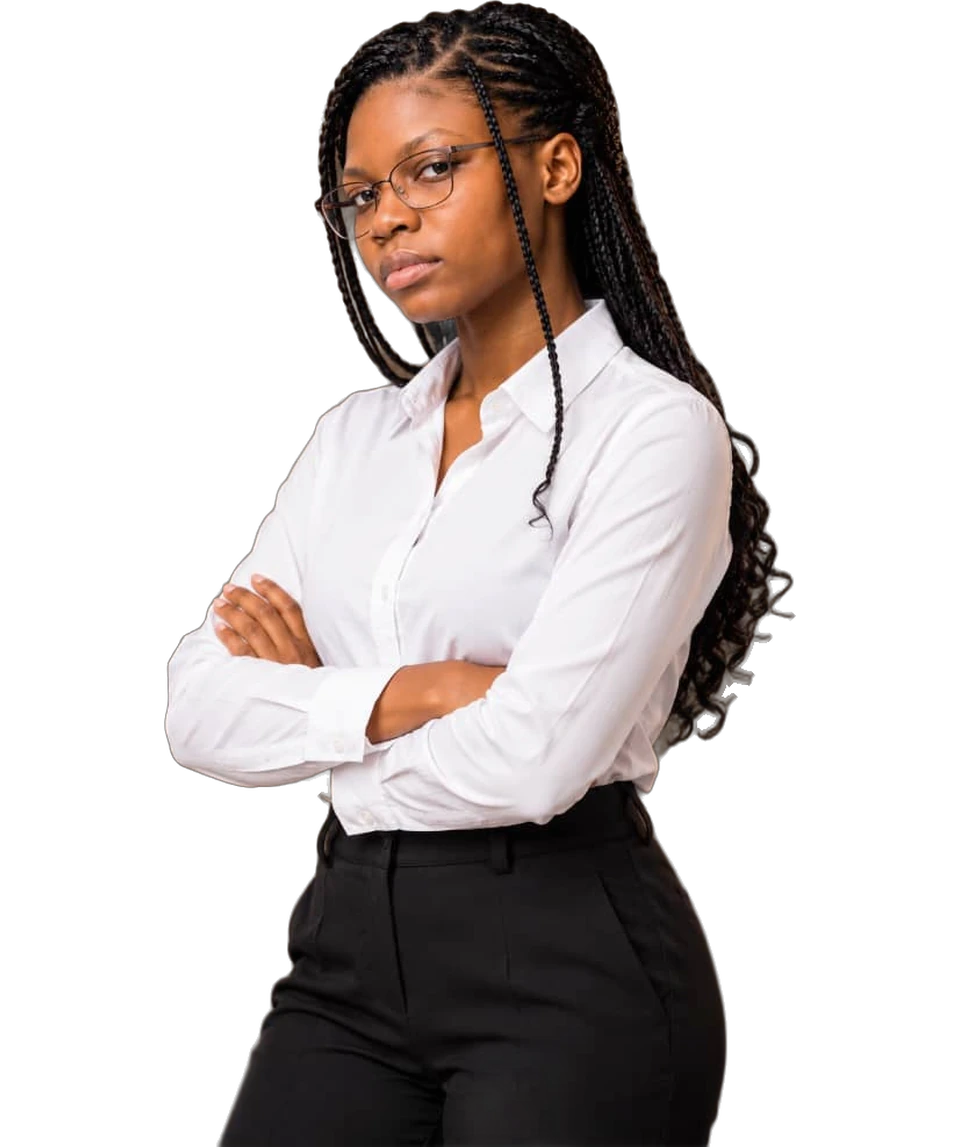
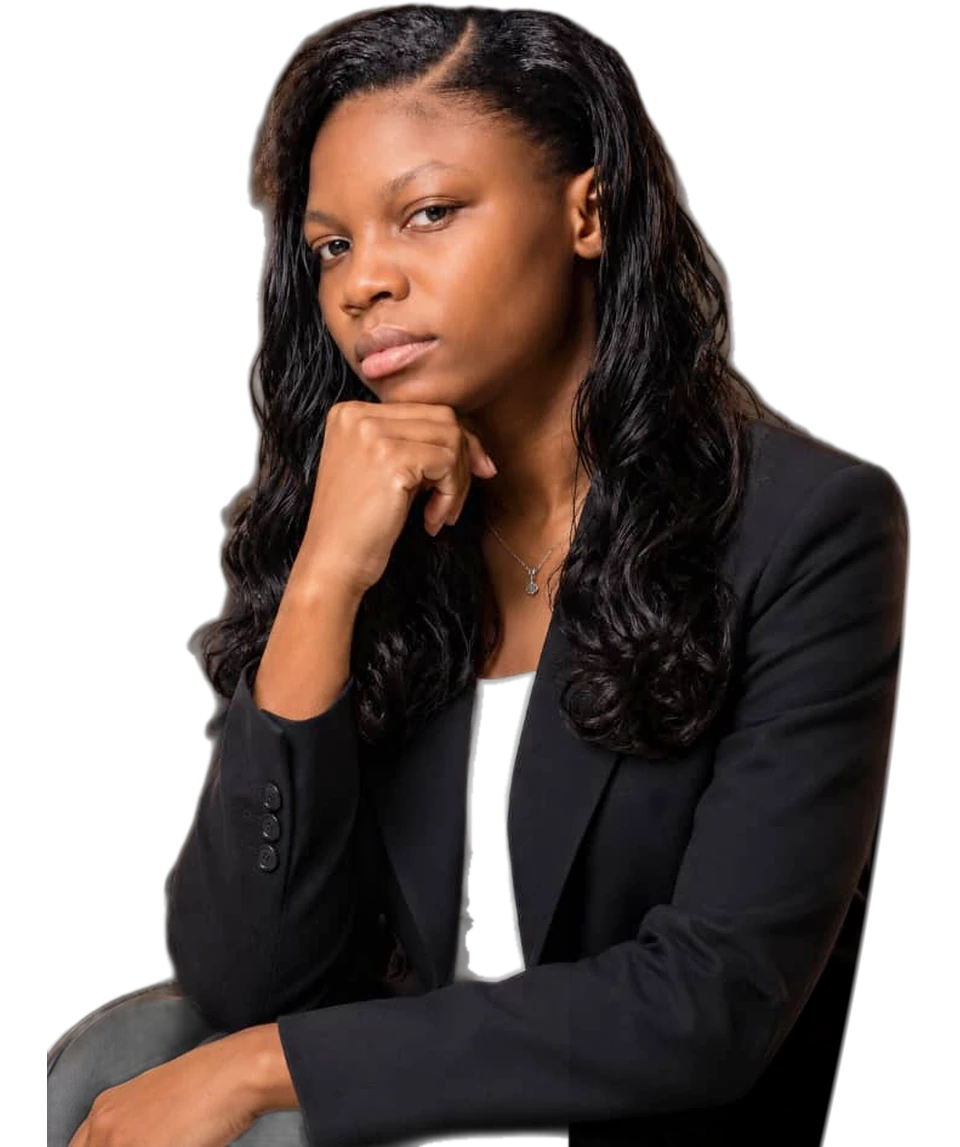
Section équipe en accordéon, photos de l'équipe, bandeau rejoindre

diff --git a/src/components/Team.jsx b/src/components/Team.jsx
@@ -1,76 +1,149 @@
-import { useState } from "react";
+import { useEffect, useRef, useState } from "react";
 import { team } from "../data/team.js";
-import { Arrow, Reveal, Spark } from "./ui.jsx";
+import { Arrow, Reveal } from "./ui.jsx";
 
 const initials = (name) => name.split(/\s+/).filter(Boolean).slice(0, 2).map((w) => w[0]).join("").toUpperCase();
-// Grille en quinconce : une colonne sur deux est décalée vers le bas (grand écran).
-const drop = (i) => (i % 2 ? "lg:mt-12" : "");
+const ease = "ease-[cubic-bezier(.65,0,.15,1)]";
 
-// La tuile d'invitation occupe les colonnes restantes de la dernière ligne (grand écran).
-const fill = { 1: "lg:col-span-1", 2: "lg:col-span-2", 3: "lg:col-span-3", 4: "lg:col-span-4" };
-
-function Member({ m, i }) {
-  const [missing, setMissing] = useState(false);
-  const Tag = m.link ? "a" : "div";
-  const linkProps = m.link ? { href: m.link, target: "_blank", rel: "noreferrer" } : {};
-  return (
-    <Tag {...linkProps} className="theme-dark group relative block aspect-[4/5] overflow-hidden rounded-[1.75rem] bg-ink text-bone ring-1 ring-bone/10 transition-[transform,box-shadow] duration-500 ease-[cubic-bezier(.2,.7,.2,1)] hover:-translate-y-2 hover:shadow-[0_30px_60px_-25px_rgb(var(--c-accent)/.55)]">
-      {missing ? (
-        <span className="absolute inset-0 flex items-start justify-center pt-[22%] sm:items-center sm:pt-0 bg-[repeating-linear-gradient(135deg,rgb(var(--c-bone)/.05)_0_2px,transparent_2px_16px)]">
-          <span className="font-display text-[clamp(3rem,7vw,5.5rem)] font-bold tracking-[-0.04em] text-bone/25 transition-colors duration-500 group-hover:text-accent">{initials(m.name)}</span>
-        </span>
-      ) : (
-        <img
-          src={m.photo} alt={`${m.name}, ${m.role}`} loading="lazy" onError={() => setMissing(true)}
-          className="absolute inset-0 h-full w-full object-cover grayscale transition-all duration-[900ms] ease-[cubic-bezier(.2,.7,.2,1)] group-hover:scale-[1.06] group-hover:grayscale-0"
-        />
-      )}
-      <span className="pointer-events-none absolute inset-0 bg-gradient-to-t from-ink/90 via-ink/15 to-transparent" />
-      <span className="absolute left-4 top-4 rounded-full bg-ink/70 px-3 py-1 font-display text-xs text-bone backdrop-blur transition-colors duration-500 group-hover:bg-accent group-hover:text-ink">0{i + 1}</span>
-      {m.link && (
-        <span className="absolute right-4 top-4 grid h-9 w-9 scale-0 place-items-center rounded-full bg-accent text-ink transition-transform duration-500 group-hover:scale-100"><Arrow className="h-4 w-4" /></span>
-      )}
-      <span className="absolute inset-x-4 bottom-4 block sm:inset-x-5 sm:bottom-5">
-        <span className="block font-display text-lg font-bold leading-tight tracking-tight sm:text-2xl">{m.name}</span>
-        <span className="mt-1.5 block text-sm text-mist transition-colors duration-500 group-hover:text-accent sm:text-base">{m.role}</span>
-        <span className="mt-3 block h-0.5 w-8 bg-accent transition-all duration-500 group-hover:w-full" />
-      </span>
-    </Tag>
-  );
-}
-
+/* Galerie en panneaux accordéon.
+   - Un panneau est ouvert à la fois : fond vert, photo en couleur, nom en grand.
+   - Les autres sont des bandes fines en noir et blanc, avec le nom écrit à la verticale.
+   - Survol, clic ou clavier ouvrent un panneau ; sans interaction, la galerie
+     passe toute seule d'une personne à l'autre. */
 export default function Team() {
+  const [active, setActive] = useState(0);
+  const [paused, setPaused] = useState(false);
+  const [missing, setMissing] = useState({});
+  const listRef = useRef(null);
+
+  useEffect(() => {
+    if (paused || window.matchMedia("(prefers-reduced-motion: reduce)").matches) return;
+    let visible = false;
+    const io = new IntersectionObserver(([e]) => { visible = e.isIntersecting; }, { threshold: 0.3 });
+    io.observe(listRef.current);
+    const t = setInterval(() => { if (visible) setActive((a) => (a + 1) % team.length); }, 3800);
+    return () => { clearInterval(t); io.disconnect(); };
+  }, [paused]);
+
+  const open = (i) => { setActive(i); setPaused(true); };
+
   return (
-    <section id="team" className="shell pb-24 sm:pb-36">
-      <div className="grid items-end gap-8 lg:grid-cols-12">
+    <section id="team" className="pb-24 sm:pb-36">
+      <div className="shell grid items-end gap-8 lg:grid-cols-12">
         <Reveal className="lg:col-span-8">
           <p className="eyebrow text-accent">( Équipe — {String(team.length).padStart(2, "0")} talents )</p>
           <h2 className="mt-8 font-display text-title font-bold">Celles et ceux avec<br />qui je <span className="mark">travaille</span></h2>
         </Reveal>
         <Reveal delay={120} className="font-display text-xl leading-snug text-mist sm:text-2xl lg:col-span-4 lg:pb-3">
-          Les meilleurs projets se construisent à plusieurs. Voici les personnes avec qui je collabore.
+          Les meilleurs projets se construisent à plusieurs. Passez sur un visage pour faire connaissance.
         </Reveal>
       </div>
 
-      <ul className="mt-14 grid grid-cols-2 gap-4 sm:mt-20 sm:gap-5 lg:grid-cols-4">
-        {team.map((m, i) => (
-          <Reveal as="li" key={i} delay={(i % 4) * 90} className={drop(i)}>
-            <Member m={m} i={i} />
-          </Reveal>
-        ))}
+      <Reveal className="shell mt-14 sm:mt-20">
+        <ul ref={listRef} onMouseLeave={() => setPaused(false)} className="flex flex-col gap-3 lg:h-[36rem] lg:flex-row">
+          {team.map((m, i) => {
+            const on = i === active;
+            return (
+              <li
+                key={i}
+                className={`relative overflow-hidden rounded-[1.75rem] ring-1 transition-[flex-grow,height,background-color,box-shadow] duration-700 ${ease}
+                  ${on ? "h-[30rem] bg-accent ring-accent shadow-[0_40px_80px_-35px_rgb(var(--c-accent)/.7)] lg:grow-[5]" : "h-24 bg-bone/[0.05] ring-bone/10 hover:bg-bone/[0.09] lg:grow"}
+                  sm:h-auto ${on ? "sm:h-[32rem]" : "sm:h-28"} lg:h-auto lg:basis-0`}
+              >
+                <button
+                  type="button" aria-expanded={on} aria-label={`${m.name}, ${m.role}`}
+                  onMouseEnter={() => open(i)} onFocus={() => open(i)} onClick={() => open(i)}
+                  className="absolute inset-0 z-20 cursor-pointer focus-visible:outline-none"
+                />
 
-        {/* Tuile d'invitation */}
-        <Reveal as="li" delay={(team.length % 4) * 90} className={`${team.length % 2 ? "col-span-1" : "col-span-2"} ${fill[4 - (team.length % 4)]} ${drop(team.length)}`}>
-          <a href="#contact" className="group relative flex h-full min-h-[14rem] flex-col justify-between overflow-hidden rounded-[1.75rem] bg-accent p-5 text-ink transition-transform duration-500 hover:-translate-y-2 sm:p-9">
-            <Spark className="absolute -right-8 -top-8 h-36 w-36 animate-spin-slow text-ink/10" />
-            <span className="eyebrow relative">Et vous ?</span>
-            <span className="relative flex items-end justify-between gap-4">
-              <span className="font-display text-2xl font-bold leading-[1.05] tracking-tight sm:text-5xl">Rejoignez<br />l’aventure.</span>
-              <span className="grid h-14 w-14 shrink-0 place-items-center rounded-full bg-ink text-accent transition-transform duration-500 group-hover:rotate-45 max-sm:hidden"><Arrow /></span>
-            </span>
-          </a>
-        </Reveal>
-      </ul>
+                {/* Photo détourée : centrée quand le panneau est fermé, calée à droite quand il est ouvert */}
+                <div
+                  className={`pointer-events-none absolute bottom-0 top-0 w-[var(--pw)] transition-[left,filter] duration-700 [--pw:17rem] sm:[--pw:22rem] lg:[--pw:24rem] ${ease} ${on ? "grayscale-0" : "grayscale brightness-[.7]"}`}
+                  style={{ left: on ? "calc(100% - min(100%, var(--pw)))" : "calc(50% - var(--pw) / 2)" }}
+                >
+                  {missing[i] ? (
+                    <span className={`absolute inset-0 grid place-items-center font-display text-6xl font-bold ${on ? "text-ink/40" : "text-bone/25"}`}>{initials(m.name)}</span>
+                  ) : (
+                    <img
+                      src={m.photo} alt="" loading="lazy" onError={() => setMissing((s) => ({ ...s, [i]: true }))}
+                      className={`absolute inset-x-0 bottom-0 h-[94%] w-full origin-bottom object-contain object-bottom transition-transform duration-700 ${ease} ${on ? "scale-100 max-lg:h-[62%]" : "scale-[1.35] lg:scale-[1.15]"}`}
+                    />
+                  )}
+                </div>
+
+                {/* Bande fermée : numéro + nom */}
+                <div className={`pointer-events-none absolute inset-0 z-10 flex items-center justify-between px-6 transition-opacity duration-300 lg:flex-col lg:items-start lg:justify-between lg:px-0 lg:py-6 ${on ? "opacity-0" : "opacity-100 delay-300"}`}>
+                  <span className="font-display text-sm text-accent lg:mx-auto">0{i + 1}</span>
+                  <span className="max-w-[60%] truncate text-right font-display text-lg font-bold lg:mx-auto lg:max-w-none lg:rotate-180 lg:text-xl lg:[writing-mode:vertical-rl]">{m.name}</span>
+                </div>
+
+                {/* Panneau ouvert : fiche */}
+                <div className={`pointer-events-none absolute inset-y-0 left-0 z-10 flex w-full flex-col justify-start gap-4 p-6 text-ink sm:p-9 lg:w-[55%] lg:justify-between lg:gap-0 ${on ? "" : "invisible"}`}>
+                  <span className={`font-display text-sm font-medium transition-all duration-500 ${on ? "translate-y-0 opacity-100 delay-300" : "-translate-y-3 opacity-0"}`}>
+                    0{i + 1} <span className="opacity-50">/ 0{team.length}</span>
+                  </span>
+                  <div>
+                    <p className={`max-w-[11ch] font-display text-[clamp(2rem,4.2vw,3.75rem)] font-bold leading-[0.95] tracking-[-0.04em] transition-all duration-700 ${ease} ${on ? "translate-y-0 opacity-100 delay-200" : "translate-y-6 opacity-0"}`}>
+                      {m.name}
+                    </p>
+                    <p className={`mt-5 inline-block max-w-[16rem] rounded-full bg-ink px-4 py-2 text-sm font-medium text-accent transition-all duration-700 ${ease} ${on ? "translate-y-0 opacity-100 delay-[400ms]" : "translate-y-6 opacity-0"}`}>
+                      {m.role}
+                    </p>
+                    {m.link && (
+                      <a href={m.link} target="_blank" rel="noreferrer" className="pointer-events-auto relative z-30 mt-6 flex w-fit items-center gap-2 font-display text-sm font-bold uppercase tracking-[0.15em]">
+                        Voir le profil <Arrow className="h-4 w-4" />
+                      </a>
+                    )}
+                  </div>
+                </div>
+              </li>
+            );
+          })}
+        </ul>
+
+        {/* Pastilles de navigation */}
+        <div className="mt-6 flex items-center justify-center gap-2" aria-hidden="true">
+          {team.map((_, i) => (
+            <button key={i} type="button" tabIndex={-1} onClick={() => open(i)}
+              className={`h-2 rounded-full transition-all duration-500 ${i === active ? "w-8 bg-accent" : "w-2 bg-bone/25 hover:bg-bone/50"}`} />
+          ))}
+        </div>
+      </Reveal>
+
+      {/* Bandeau d'invitation : avatars de l'équipe + place libre, texte, bouton */}
+      <Reveal className="shell mt-12 sm:mt-16">
+        <a href="#contact" className="group relative flex flex-col gap-8 overflow-hidden rounded-[2rem] bg-accent p-7 text-ink transition-transform duration-500 hover:-translate-y-1 sm:p-10 lg:flex-row lg:items-center lg:justify-between">
+          {/* Motif de fond : grand texte en filigrane qui défile au survol */}
+          <span aria-hidden="true" className="pointer-events-none absolute -bottom-6 left-0 whitespace-nowrap font-display text-[7rem] font-bold leading-none tracking-[-0.05em] text-ink/[0.06] transition-transform duration-[1500ms] ease-out group-hover:-translate-x-24 sm:text-[10rem]">
+            On recrute · On collabore · On construit ·
+          </span>
+
+          <div className="relative flex flex-col gap-6 sm:flex-row sm:items-center sm:gap-8">
+            {/* Avatars superposés + la place vide « vous » */}
+            <div className="flex shrink-0 items-center">
+              {team.map((m, i) => (
+                <span key={i} className="-ml-3 grid h-14 w-14 place-items-center overflow-hidden rounded-full bg-ink ring-4 ring-accent transition-transform duration-500 first:ml-0 group-hover:-translate-y-1 sm:h-16 sm:w-16" style={{ transitionDelay: `${i * 50}ms` }}>
+                  <img src={m.photo} alt="" className="h-full w-full origin-[50%_8%] scale-[2.1] object-cover object-top grayscale" onError={(e) => { e.currentTarget.style.display = "none"; }} />
+                </span>
+              ))}
+              <span className="-ml-3 grid h-14 w-14 place-items-center rounded-full border-2 border-dashed border-ink bg-accent font-display text-2xl font-bold ring-4 ring-accent transition-all duration-500 group-hover:rotate-90 group-hover:bg-ink group-hover:text-accent sm:h-16 sm:w-16">+</span>
+            </div>
+            <div>
+              <p className="eyebrow flex items-center gap-2">
+                <span className="relative flex h-2 w-2"><span className="absolute inline-flex h-full w-full animate-ping rounded-full bg-ink/50" /><span className="relative inline-flex h-2 w-2 rounded-full bg-ink" /></span>
+                Une place vous attend
+              </p>
+              <p className="mt-3 font-display text-[clamp(1.75rem,3.4vw,3rem)] font-bold leading-[1] tracking-[-0.04em]">Envie de rejoindre l’équipe ?</p>
+              <p className="mt-3 max-w-md text-sm leading-relaxed text-ink/70 sm:text-base">Designer, développeur ou simplement passionné : parlons de ce qu’on pourrait construire ensemble.</p>
+            </div>
+          </div>
+
+          <span className="relative flex w-fit shrink-0 items-center gap-3 rounded-full bg-ink py-3 pl-7 pr-3 font-display font-medium text-bone transition-colors duration-300 group-hover:bg-bone group-hover:text-ink">
+            Discutons
+            <span className="grid h-11 w-11 place-items-center rounded-full bg-accent text-ink transition-transform duration-500 group-hover:rotate-45"><Arrow /></span>
+          </span>
+        </a>
+      </Reveal>
     </section>
   );
 }

diff --git a/src/data/team.js b/src/data/team.js
@@ -1,12 +1,13 @@
 // Équipe — les personnes avec qui Batista travaille.
-// Pour chaque personne : nom, poste, photo (fichier dans public/assets/images/team/) et lien facultatif.
-// Ajoutez ou retirez des lignes librement : la grille s'adapte.
+// Pour chaque personne : nom, poste, photo et lien facultatif (LinkedIn…).
+// Les photos sont détourées (fond transparent, format .webp) et rangées dans public/assets/images/team/.
+// Pour une nouvelle personne, une photo classique (.jpg) fonctionne aussi.
 const photo = (file) => `/assets/images/team/${file}`;
 
 export const team = [
-  { name: "Lisette OBOGNON", role: "Développeuse backend", photo: photo("lisette.jpg"), link: "" },
-  { name: "Bhilal CHITOU", role: "Développeur JS full-stack", photo: photo("bhilal.jpg"), link: "" },
-  { name: "Ismael Fullbuster", role: "Développeur web full-stack JS", photo: photo("ismael.jpg"), link: "" },
-  { name: "Elvire FADEGNON", role: "Développeuse Laravel & React", photo: photo("elvire.jpg"), link: "" },
-  { name: "Eurydoxie Yantikoua", role: "Designeuse UI/UX & développeuse frontend", photo: photo("eurydoxie.jpg"), link: "" },
+  { name: "Lisette OBOGNON", role: "Développeuse backend", photo: photo("lisette-cut.webp"), link: "" },
+  { name: "Bhilal CHITOU", role: "Développeur JS full-stack", photo: photo("bhilal-cut.webp"), link: "" },
+  { name: "Ismael Fullbuster", role: "Développeur web full-stack JS", photo: photo("ismael-cut.webp"), link: "" },
+  { name: "Elvire FADEGNON", role: "Développeuse Laravel & React", photo: photo("elvire-cut.webp"), link: "" },
+  { name: "Eurydoxie Yantikoua", role: "Designeuse UI/UX & développeuse frontend", photo: photo("eurydoxie-cut.webp"), link: "" },
 ];
